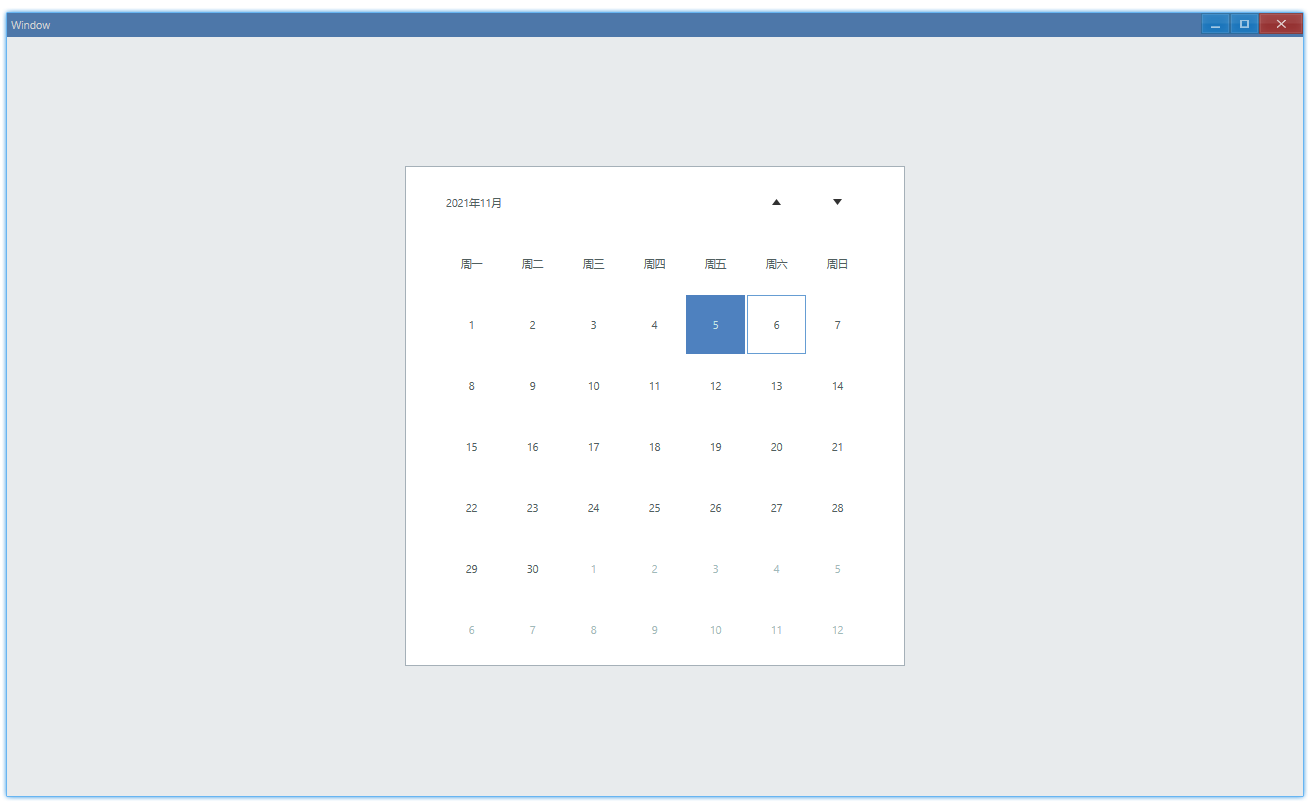
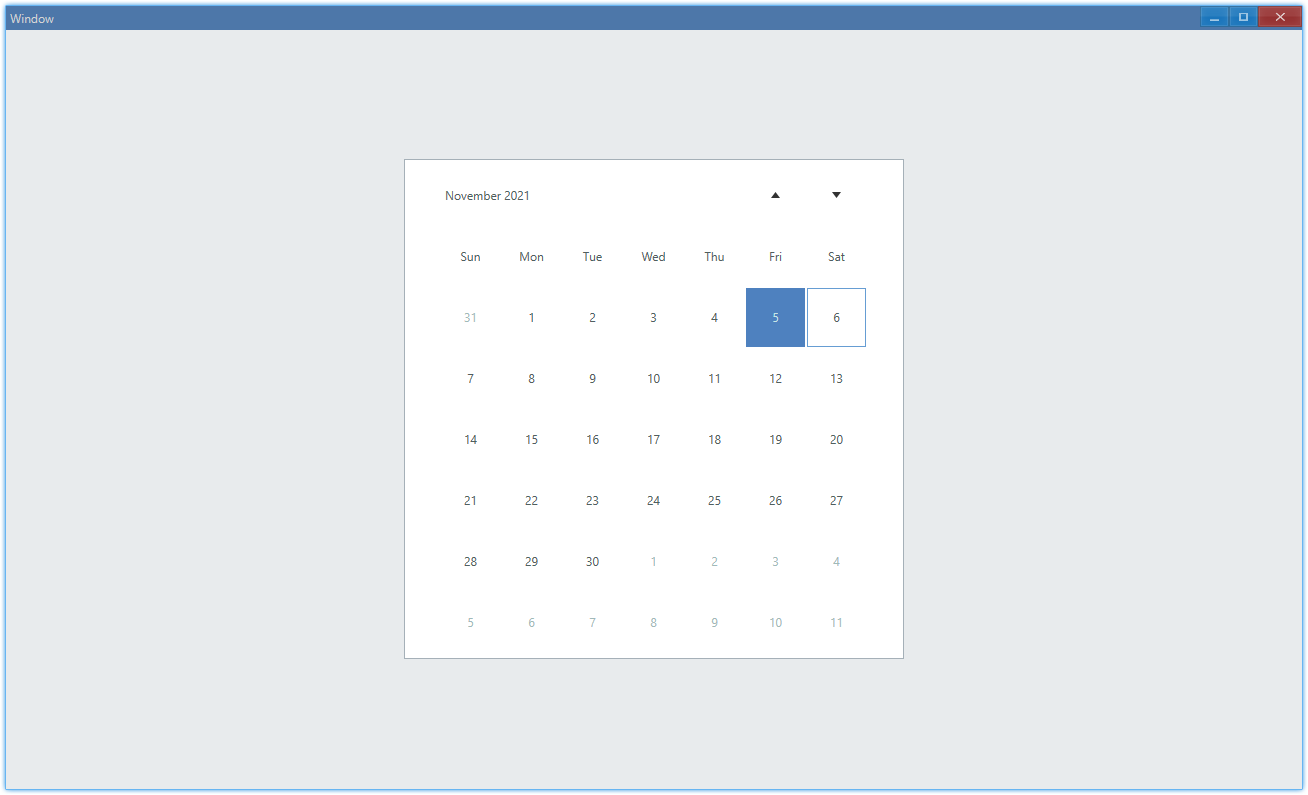
add docs for calendar

diff --git a/docs/calendar.md b/docs/calendar.md
@@ -2,3 +2,100 @@
 id: calendar
 title: Calendar
 ---
+
+## Examples {#examples}
+
+### Basic {#example-basic}
+
+```ts {5-8}
+import { Window, Calendar } from 'ave-ui';
+
+export function main(window: Window) {
+    const calendar = new Calendar(window);
+    calendar.OnChange((sender) => {
+        const timePoint = sender.GetDate();
+        console.log(
+            `Date: ${timePoint.Year}-${timePoint.Month}-${timePoint.Day}`,
+        );
+    });
+
+    const container = getControlDemoContainer(window, 1, 500, 500);
+    container.ControlAdd(calendar).SetGrid(1, 1);
+    window.SetContent(container);
+}
+```
+
+In this example, we demonstrate the basic usage of calendar:
+
+-   display current date: by default, current date is highlighted
+-   get selected date
+
+![calendar basic](./assets/calendar-basic.gif)
+
+In console:
+
+```bash
+Date: 2022-3-10
+Date: 2022-3-30
+```
+
+#### API {#api-basic}
+
+```ts
+export interface ICalendar extends IControl {
+    GetDate(): TimePoint;
+    OnChange(callback: (sender: Calendar) => void): Calendar;
+}
+
+export class TimePoint {
+    get Year(): number;
+    get Month(): number;
+    get Day(): number;
+}
+```
+
+### Set Date {#example-set}
+
+By default, current date will be highlighted when you open it, we can customize selected date using `SetDate` and `SetDateMark`.
+
+```ts {5-6}
+import { Window, Calendar, TimePoint } from 'ave-ui';
+
+export function main(window: Window) {
+    const calendar = new Calendar(window);
+    calendar.SetDate(new TimePoint(2021, 11, 5));
+    calendar.SetDateMark(new TimePoint(2021, 11, 5));
+
+    const container = getControlDemoContainer(window, 1, 500, 500);
+    container.ControlAdd(calendar).SetGrid(1, 1);
+    window.SetContent(container);
+}
+```
+
+In this example, we set date to `2021/11/5`:
+
+![calendar set](./assets/calendar-set.png)
+
+-   `SetDate`: outline
+-   `SetDateMark`: filled background
+
+The differences between them can be seen from this example:
+
+```diff
+-calendar.SetDate(new TimePoint(2021, 11, 5));
++calendar.SetDate(new TimePoint(2021, 11, 6));
+```
+
+![calendar set 2](./assets/calendar-set-2.png)
+
+#### API {#api-set}
+
+```ts
+export interface ICalendar extends IControl {
+    SetDate(timePoint: TimePoint): Calendar;
+    GetDate(): TimePoint;
+
+    SetDateMark(timePoint: TimePoint): Calendar;
+    GetDateMark(): TimePoint;
+}
+```

diff --git a/docs/status-bar.md b/docs/status-bar.md
@@ -45,7 +45,7 @@ Usage:
 
 ![status bar basic](./assets/status-bar-basic.gif)
 
-Print clicked part index:
+Print index of clicked part:
 
 ```bash
 index: 1
